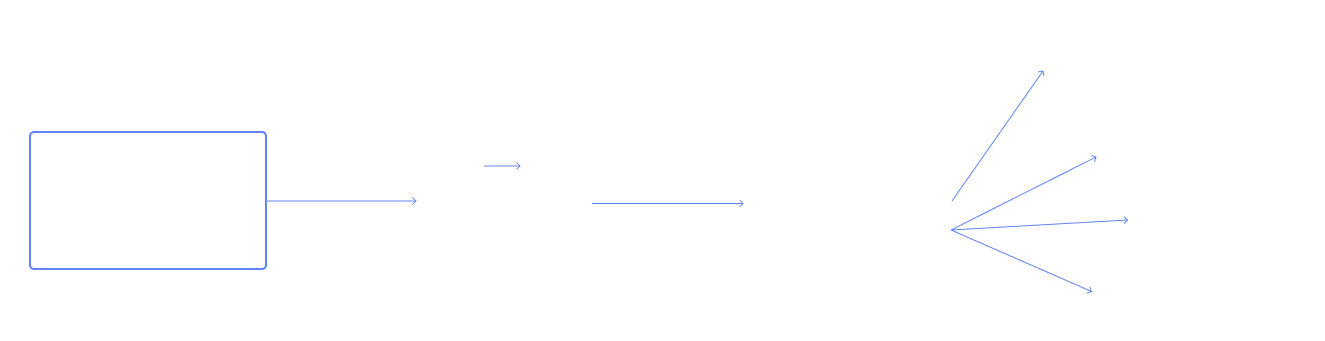
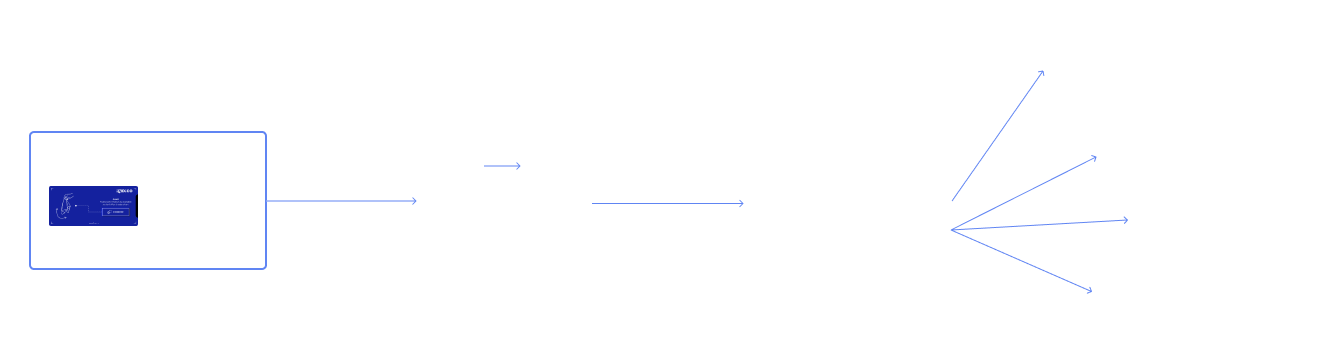
add project theme color

Changed region(s): [[0.0309, 0.5279, 0.1238, 0.6745]]

diff --git a/src/components/pages/Project.js b/src/components/pages/Project.js
@@ -31,7 +31,7 @@ function Project() {
   }
 
   // Couleurs
-  // const primaryStyle = { backgroundColor: project.couleurs.primaire };
+  const primaryStyle = { backgroundColor: project.couleurs.primaire };
   // const secondaryStyle = { backgroundColor: project.couleurs.secondaire };
   // const thirdStyle = { backgroundColor: project.couleurs.tertiaire };
 
@@ -41,18 +41,28 @@ function Project() {
       <Logo></Logo>
       <Social></Social>
 
-      <h1>{project.name}</h1>
+      <h1>
+        {project.name}
+        <div style={primaryStyle} className='title-after' />
+      </h1>
+
       <Link to={`/`} onClick={back}>
         <Button rotate='gauche' shadow='true'></Button>
       </Link>
 
       <ProjectTitle project={project}></ProjectTitle>
-      <SectionResume resume={project.content.resume}></SectionResume>
+      <SectionResume
+        resume={project.content.resume}
+        colors={project.couleurs}
+      ></SectionResume>
       <SectionScreens
         imageCode={project.images.code}
         projectScreenSection={project.images.screens.firstScreenSection}
       ></SectionScreens>
-      <SectionDetails details={project.content.details}></SectionDetails>
+      <SectionDetails
+        details={project.content.details}
+        colors={project.couleurs}
+      ></SectionDetails>
     </div>
   );
 }

diff --git a/src/ressources/images/imagesProjects.js b/src/ressources/images/imagesProjects.js
@@ -23,6 +23,9 @@ import snated_picture6_alerts from './projets/Snated/screens/snated_screen_alert
 
 import indico from './projets/indico_slide.png';
 import indicotitle from './projets/indico_title_v1.png';
+import indicoschemaFr from './projets/Indico/screens/fr.png';
+import indicoschemaEn from './projets/Indico/screens/en.png';
+import indicoschemaIt from './projets/Indico/screens/it.png';
 
 const gabi_images = [
   { code: 'GA_1', src: gabi, name: 'gabi', description: 'gabi image slide' },
@@ -149,6 +152,12 @@ const indico_images = [
     name: 'indicotitle',
     description: 'indicotitle image slide',
   },
+  {
+    code: 'IN_3',
+    src: getImageFromLang(indicoschemaEn, indicoschemaFr, indicoschemaIt),
+    name: 'indicoschema',
+    description: 'indicoschema image slide',
+  },
 ];
 
 const images = gabi_images.concat(
@@ -159,3 +168,16 @@ const images = gabi_images.concat(
 );
 
 export default images;
+
+function getImageFromLang(enFile, frFile, itFile) {
+  const lang = localStorage.getItem('lang') || 'fr';
+
+  switch (lang) {
+    case 'en':
+      return enFile;
+    case 'it':
+      return itFile;
+    default:
+      return frFile;
+  }
+}

diff --git a/src/components/structure/ProjectStructure/Project_Section_Screens.js b/src/components/structure/ProjectStructure/Project_Section_Screens.js
@@ -1,6 +1,7 @@
 import React from 'react';
 import '../../scss/ProjectStyles/section_screens.scss';
 import Pattern1 from './SectionScreensPatterns/Pattern1';
+import Pattern2 from './SectionScreensPatterns/Pattern2';
 
 function SectionScreens({ imageCode, projectScreenSection }) {
   return (
@@ -17,6 +18,14 @@ function SectionScreens({ imageCode, projectScreenSection }) {
             imageCode={imageCode}
             projectScreenSectionImages={projectScreenSection.images}
           ></Pattern1>
+        );
+        break;
+      case 2:
+        return (
+          <Pattern2
+            imageCode={imageCode}
+            projectScreenSectionImages={projectScreenSection.images}
+          ></Pattern2>
         );
         break;
       default:

diff --git a/src/components/structure/ProjectStructure/SectionScreensPatterns/Pattern2.js b/src/components/structure/ProjectStructure/SectionScreensPatterns/Pattern2.js
@@ -1,0 +1,22 @@
+import React from 'react';
+import Citation from '../Citation';
+import '../../../scss/ProjectStyles/Patterns/pattern2.scss';
+import Images from '../../../../ressources/images/imagesProjects';
+
+function Pattern2({ imageCode, projectScreenSectionImages }) {
+  const imageObject = projectScreenSectionImages[0];
+  const image = Images.find((x) => x.code === imageCode + imageObject.id);
+
+  return (
+    <div className='Pattern2'>
+      <img src={image.src} alt={image.description} />
+      <Citation
+        titre={imageObject.title}
+        params={imageObject.legende}
+        w='40'
+      ></Citation>
+    </div>
+  );
+}
+
+export default Pattern2;

diff --git a/src/components/scss/ProjectStyles/project.scss b/src/components/scss/ProjectStyles/project.scss
@@ -12,19 +12,19 @@
     top: 11vh;
     left: 3vw;
     font-size: 15pt;
+  }
 
-    &:after {
-      content: ' ';
-      height: 10px;
-      width: 10px;
-      position: absolute;
-      background-color: var(--main-color);
-      border-radius: 50%;
-      top: 50%;
-      margin-left: 10px;
-      transform: translate(0px, -50%);
-      transition: all ease-in-out 0.2s;
-    }
+  .title-after {
+    content: ' ';
+    height: 10px;
+    width: 10px;
+    position: absolute;
+    right: -20px;
+    border-radius: 50%;
+    top: 50%;
+    margin-left: 10px;
+    transform: translate(0px, -50%);
+    transition: all ease-in-out 0.2s;
   }
 
   .Button {

diff --git a/src/components/structure/ProjectStructure/Project_Section_Details.js b/src/components/structure/ProjectStructure/Project_Section_Details.js
@@ -2,7 +2,7 @@ import React from 'react';
 import '../../scss/ProjectStyles/section_details.scss';
 import Citation from './Citation';
 
-function SectionDetails({ details }) {
+function SectionDetails({ details, colors }) {
   return (
     <div className='SectionDetails'>
       <div className='citations'>
@@ -11,6 +11,7 @@ function SectionDetails({ details }) {
             titre={details[i].titre}
             params={details[i].detail}
             w='40'
+            color={colors.primaire}
             key={i}
           ></Citation>
         ))}

diff --git a/src/components/structure/ProjectStructure/Citation.js b/src/components/structure/ProjectStructure/Citation.js
@@ -1,10 +1,12 @@
 import React from 'react';
 import '../../scss/ProjectStyles/citation.scss';
 
-function Citation({ titre, params, w }) {
+function Citation({ titre, params, w, color }) {
   return (
     <div className={`Citation Citation-${w}`}>
-      <div className='titre'>{titre}</div>
+      <div className='titre' style={{ borderRight: `2px solid ${color}` }}>
+        {titre}
+      </div>
       <div className='paragraphe'>
         {Object.keys(params).map((v, i) => (
           <p key={i}>{params[i]}</p>

diff --git a/src/components/structure/ProjectStructure/Project_Section_Resume.js b/src/components/structure/ProjectStructure/Project_Section_Resume.js
@@ -2,10 +2,15 @@ import React from 'react';
 import '../../scss/ProjectStyles/section_resume.scss';
 import Citation from './Citation';
 
-function SectionResume({ resume }) {
+function SectionResume({ resume, colors }) {
   return (
     <div className='SectionResume'>
-      <Citation titre={resume.titre} params={resume.params} w='40'></Citation>
+      <Citation
+        titre={resume.titre}
+        params={resume.params}
+        w='40'
+        color={colors.primaire}
+      ></Citation>
     </div>
   );
 }

diff --git a/src/components/scss/slider-slick.scss b/src/components/scss/slider-slick.scss
@@ -44,17 +44,15 @@
         inset -1px -1px 3px rgba(255, 255, 255, 0.1);
     }
 
-    &:after {
+    .dots-after {
       content: ' ';
       height: 10px;
       width: 10px;
       position: absolute;
-      background-color: var(--main-color);
       border-radius: 50%;
       bottom: -15px;
       left: 50%;
       transform: translate(-50%, 0px);
-      transition: all ease-in-out 0.2s;
       box-shadow: 1px 1px 4px rgba(0, 0, 0, 0.3);
     }
   }

diff --git a/src/components/structure/Projets.js b/src/components/structure/Projets.js
@@ -20,7 +20,15 @@ function Projets({ titleid }) {
     infinite: true,
     swipeToSlide: true,
     customPaging: function (i) {
-      return <button>{datas[i].name}</button>;
+      return (
+        <button>
+          {datas[i].name}
+          <div
+            className='dots-after'
+            style={{ backgroundColor: datas[i].couleurs.primaire }}
+          ></div>
+        </button>
+      );
     },
   };
 

diff --git a/src/components/scss/ProjectStyles/Patterns/pattern2.scss b/src/components/scss/ProjectStyles/Patterns/pattern2.scss
@@ -1,0 +1,12 @@
+.Pattern2 {
+}
+
+$--breakpoint-min-small-devices: 600px;
+$--breakpoint-min-medium-devices: 768px;
+$--breakpoint-min-regular-devices: 992px;
+$--breakpoint-min-large-devices: 1200px;
+
+@media screen and (max-width: $--breakpoint-min-large-devices) {
+  .Pattern2 {
+  }
+}

diff --git a/src/components/scss/ProjectStyles/citation.scss b/src/components/scss/ProjectStyles/citation.scss
@@ -10,7 +10,6 @@
 
   .titre {
     width: 20%;
-    border-right: 1px solid var(--project-citation-line-color);
     font-style: italic;
     opacity: 0.5;
   }
